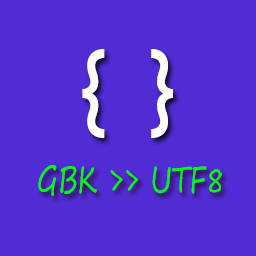
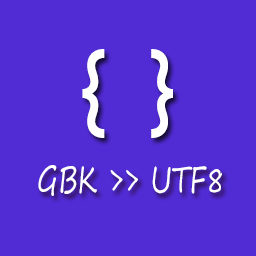
chore: bump version to 0.7.2
- feat: update extension icons

Changed region(s): [[0.125, 0.625, 0.375, 0.7812], [0.5938, 0.625, 0.875, 0.75], [0.4375, 0.6562, 0.5625, 0.75]]

diff --git a/CHANGELOG.md b/CHANGELOG.md
@@ -1,5 +1,9 @@
 # Change Log
 
+## 0.7.2 - 2026/06/09
+
+- feat: update extension icons
+
 ## 0.7.1 - 2026/06/09
 
 - fix: replace shield.io badges with vsmarketplacebadges.dev due to incorrect "retired" status